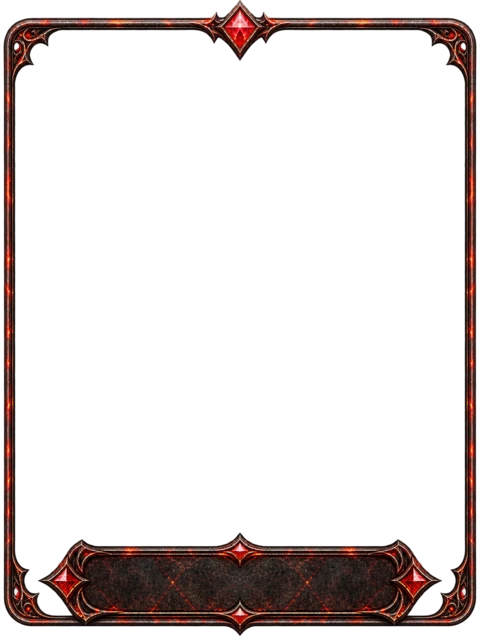
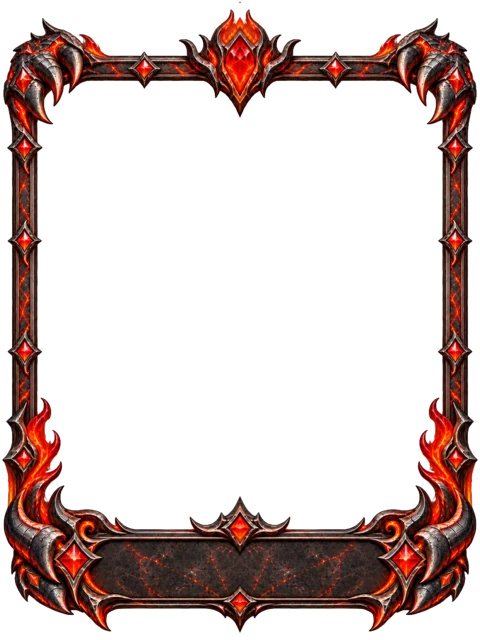
Give hero card frames a detail ladder that grows with rarity
Each tier keeps the detail of the one below and adds new elements, with
large structural additions after Mythic (claws, orbit ring, wings,
crystals, skull and chains, imperial crest, seraph crown). Silhouettes
come from the window flood-filled from the centre, and semi-transparent
metal is hardened so the art never shows through the rim.

diff --git a/src/theme/scene/rarity.css b/src/theme/scene/rarity.css
@@ -129,30 +129,31 @@ html :has(> .rx) { -webkit-mask-box-image: var(--rx-host-sil) var(--rx-host-sl) 
 .rx-rare.rx-slot { --rx-sl: 92; --rx-ot: 0.5416; --rx-ob: 0.5416; --rx-ol: 0.5150; --rx-or: 0.5150; --rx-9: url('/assets/ui/rarity-frames/rare-slot-9.webp'); --rx-sil: url('/assets/ui/rarity-frames/rare-slot-sil.webp'); }
 .rx-uncommon.rx-card { --rx-sl: 108; --rx-ot: 0.4949; --rx-ob: 0.4949; --rx-ol: 0.5064; --rx-or: 0.5064; --rx-9: url('/assets/ui/rarity-frames/uncommon-card-9.webp'); --rx-sil: url('/assets/ui/rarity-frames/uncommon-card-sil.webp'); }
 .rx-uncommon.rx-slot { --rx-sl: 92; --rx-ot: 0.5183; --rx-ob: 0.5183; --rx-ol: 0.4984; --rx-or: 0.4984; --rx-9: url('/assets/ui/rarity-frames/uncommon-slot-9.webp'); --rx-sil: url('/assets/ui/rarity-frames/uncommon-slot-sil.webp'); }
-/* TCG hero cards (2026-10-04, Founder: heroes are summoned like cards). Geometry generated from the art. */
-.rx-celestial.rx-tcg { --rx-it: 4.49%; --rx-ir: 2.76%; --rx-il: 2.76%; --rx-ib: 2.00%; --rx-bt: 85.57%; --rx-bb: 2.00%; }
+/* TCG hero cards (2026-10-04, Founder: heroes are summoned like cards; detail grows with tier, most after
+   Mythic). The frame covers the art edge itself; banner geometry is generated from the art. */
+.rx-common.rx-tcg { --rx-it: 0%; --rx-ir: 0%; --rx-il: 0%; --rx-ib: 0%; --rx-bt: 84.26%; --rx-bb: 2.84%; }
+.rx-uncommon.rx-tcg { --rx-it: 0%; --rx-ir: 0%; --rx-il: 0%; --rx-ib: 0%; --rx-bt: 84.59%; --rx-bb: 2.23%; }
+.rx-rare.rx-tcg { --rx-it: 0%; --rx-ir: 0%; --rx-il: 0%; --rx-ib: 0%; --rx-bt: 83.31%; --rx-bb: 3.11%; }
+.rx-epic.rx-tcg { --rx-it: 0%; --rx-ir: 0%; --rx-il: 0%; --rx-ib: 0%; --rx-bt: 84.39%; --rx-bb: 3.58%; }
+.rx-legendary.rx-tcg { --rx-it: 0%; --rx-ir: 0%; --rx-il: 0%; --rx-ib: 0%; --rx-bt: 85.68%; --rx-bb: 3.18%; }
+.rx-mythic.rx-tcg { --rx-it: 0%; --rx-ir: 0%; --rx-il: 0%; --rx-ib: 0%; --rx-bt: 81.96%; --rx-bb: 4.93%; }
+.rx-cosmic.rx-tcg { --rx-it: 0%; --rx-ir: 0%; --rx-il: 0%; --rx-ib: 0%; --rx-bt: 84.39%; --rx-bb: 4.05%; }
+.rx-divine.rx-tcg { --rx-it: 0%; --rx-ir: 0%; --rx-il: 0%; --rx-ib: 0%; --rx-bt: 81.62%; --rx-bb: 2.30%; }
+.rx-celestial.rx-tcg { --rx-it: 0%; --rx-ir: 0%; --rx-il: 0%; --rx-ib: 0%; --rx-bt: 81.22%; --rx-bb: 3.18%; }
+.rx-cursed.rx-tcg { --rx-it: 0%; --rx-ir: 0%; --rx-il: 0%; --rx-ib: 0%; --rx-bt: 77.84%; --rx-bb: 8.72%; }
+.rx-immortal.rx-tcg { --rx-it: 0%; --rx-ir: 0%; --rx-il: 0%; --rx-ib: 0%; --rx-bt: 77.70%; --rx-bb: 7.77%; }
+.rx-god.rx-tcg { --rx-it: 0%; --rx-ir: 0%; --rx-il: 0%; --rx-ib: 0%; --rx-bt: 81.55%; --rx-bb: 4.32%; }
 :has(> .rx-celestial.rx-tcg) { --rx-host-tcg: url('/assets/ui/rarity-frames/celestial-tcg-sil.webp'); }
-.rx-common.rx-tcg { --rx-it: 4.42%; --rx-ir: 2.67%; --rx-il: 2.67%; --rx-ib: 2.49%; --rx-bt: 85.15%; --rx-bb: 2.49%; }
 :has(> .rx-common.rx-tcg) { --rx-host-tcg: url('/assets/ui/rarity-frames/common-tcg-sil.webp'); }
-.rx-cosmic.rx-tcg { --rx-it: 4.63%; --rx-ir: 2.95%; --rx-il: 2.95%; --rx-ib: 1.93%; --rx-bt: 85.43%; --rx-bb: 1.93%; }
 :has(> .rx-cosmic.rx-tcg) { --rx-host-tcg: url('/assets/ui/rarity-frames/cosmic-tcg-sil.webp'); }
-.rx-cursed.rx-tcg { --rx-it: 4.56%; --rx-ir: 2.95%; --rx-il: 2.95%; --rx-ib: 1.80%; --rx-bt: 85.22%; --rx-bb: 1.80%; }
 :has(> .rx-cursed.rx-tcg) { --rx-host-tcg: url('/assets/ui/rarity-frames/cursed-tcg-sil.webp'); }
-.rx-divine.rx-tcg { --rx-it: 4.63%; --rx-ir: 3.22%; --rx-il: 3.22%; --rx-ib: 2.00%; --rx-bt: 85.22%; --rx-bb: 2.00%; }
 :has(> .rx-divine.rx-tcg) { --rx-host-tcg: url('/assets/ui/rarity-frames/divine-tcg-sil.webp'); }
-.rx-epic.rx-tcg { --rx-it: 4.63%; --rx-ir: 3.04%; --rx-il: 3.04%; --rx-ib: 2.07%; --rx-bt: 85.29%; --rx-bb: 2.07%; }
 :has(> .rx-epic.rx-tcg) { --rx-host-tcg: url('/assets/ui/rarity-frames/epic-tcg-sil.webp'); }
-.rx-god.rx-tcg { --rx-it: 4.49%; --rx-ir: 2.67%; --rx-il: 2.67%; --rx-ib: 2.00%; --rx-bt: 85.64%; --rx-bb: 2.00%; }
 :has(> .rx-god.rx-tcg) { --rx-host-tcg: url('/assets/ui/rarity-frames/god-tcg-sil.webp'); }
-.rx-immortal.rx-tcg { --rx-it: 4.49%; --rx-ir: 3.13%; --rx-il: 3.13%; --rx-ib: 1.73%; --rx-bt: 85.15%; --rx-bb: 1.73%; }
 :has(> .rx-immortal.rx-tcg) { --rx-host-tcg: url('/assets/ui/rarity-frames/immortal-tcg-sil.webp'); }
-.rx-legendary.rx-tcg { --rx-it: 4.49%; --rx-ir: 2.95%; --rx-il: 2.95%; --rx-ib: 1.93%; --rx-bt: 85.43%; --rx-bb: 1.93%; }
 :has(> .rx-legendary.rx-tcg) { --rx-host-tcg: url('/assets/ui/rarity-frames/legendary-tcg-sil.webp'); }
-.rx-mythic.rx-tcg { --rx-it: 4.49%; --rx-ir: 2.85%; --rx-il: 2.85%; --rx-ib: 2.21%; --rx-bt: 85.36%; --rx-bb: 2.21%; }
 :has(> .rx-mythic.rx-tcg) { --rx-host-tcg: url('/assets/ui/rarity-frames/mythic-tcg-sil.webp'); }
-.rx-rare.rx-tcg { --rx-it: 4.70%; --rx-ir: 2.95%; --rx-il: 2.95%; --rx-ib: 1.93%; --rx-bt: 85.43%; --rx-bb: 1.93%; }
 :has(> .rx-rare.rx-tcg) { --rx-host-tcg: url('/assets/ui/rarity-frames/rare-tcg-sil.webp'); }
-.rx-uncommon.rx-tcg { --rx-it: 4.49%; --rx-ir: 2.95%; --rx-il: 2.95%; --rx-ib: 1.93%; --rx-bt: 85.22%; --rx-bb: 1.93%; }
 :has(> .rx-uncommon.rx-tcg) { --rx-host-tcg: url('/assets/ui/rarity-frames/uncommon-tcg-sil.webp'); }
 /* TCG card: the whole frame image on the fixed 3:4 box (no 9-slice), rounded silhouette, name in the banner */
 .rx-tcg { container-type: size; }
